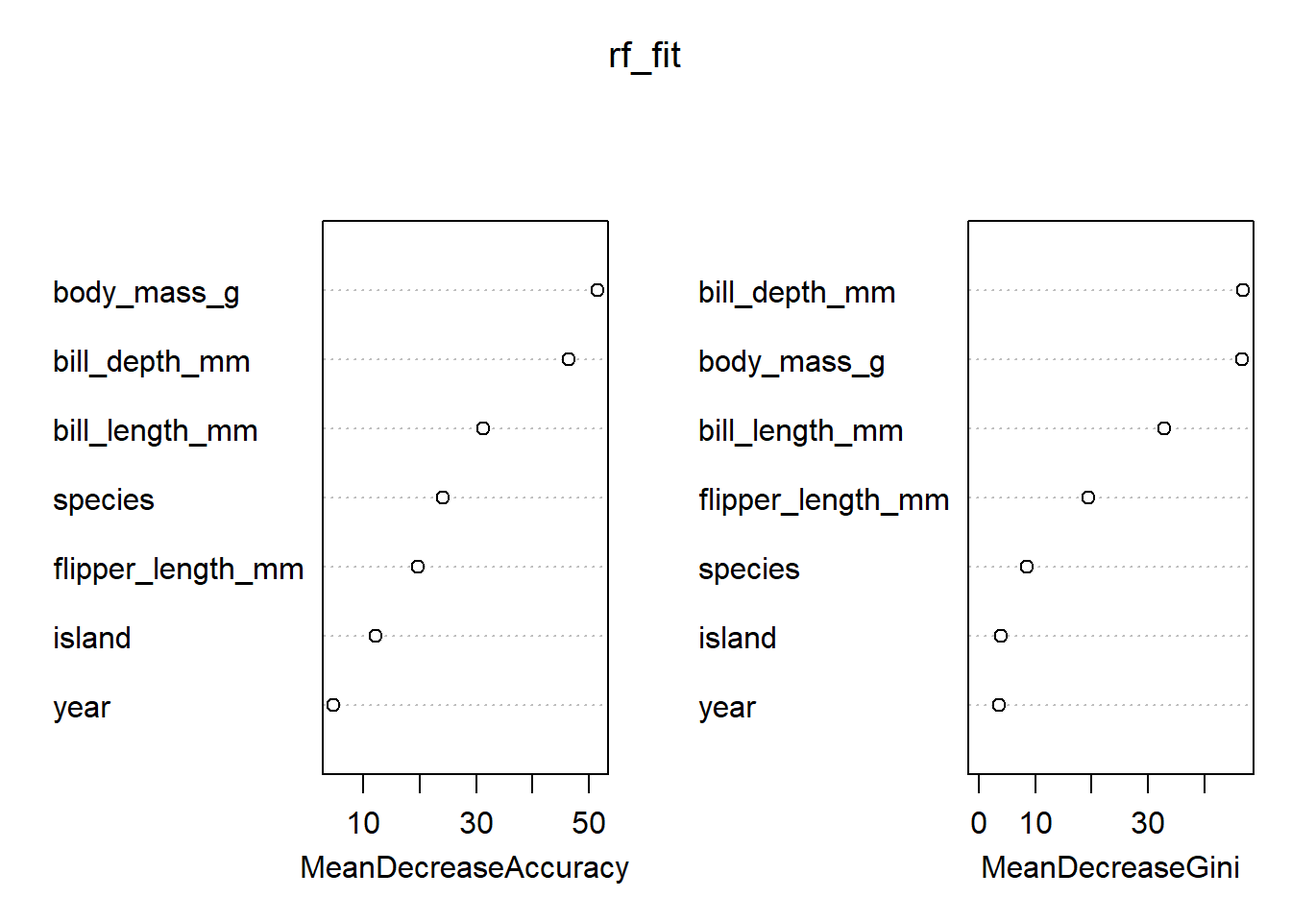
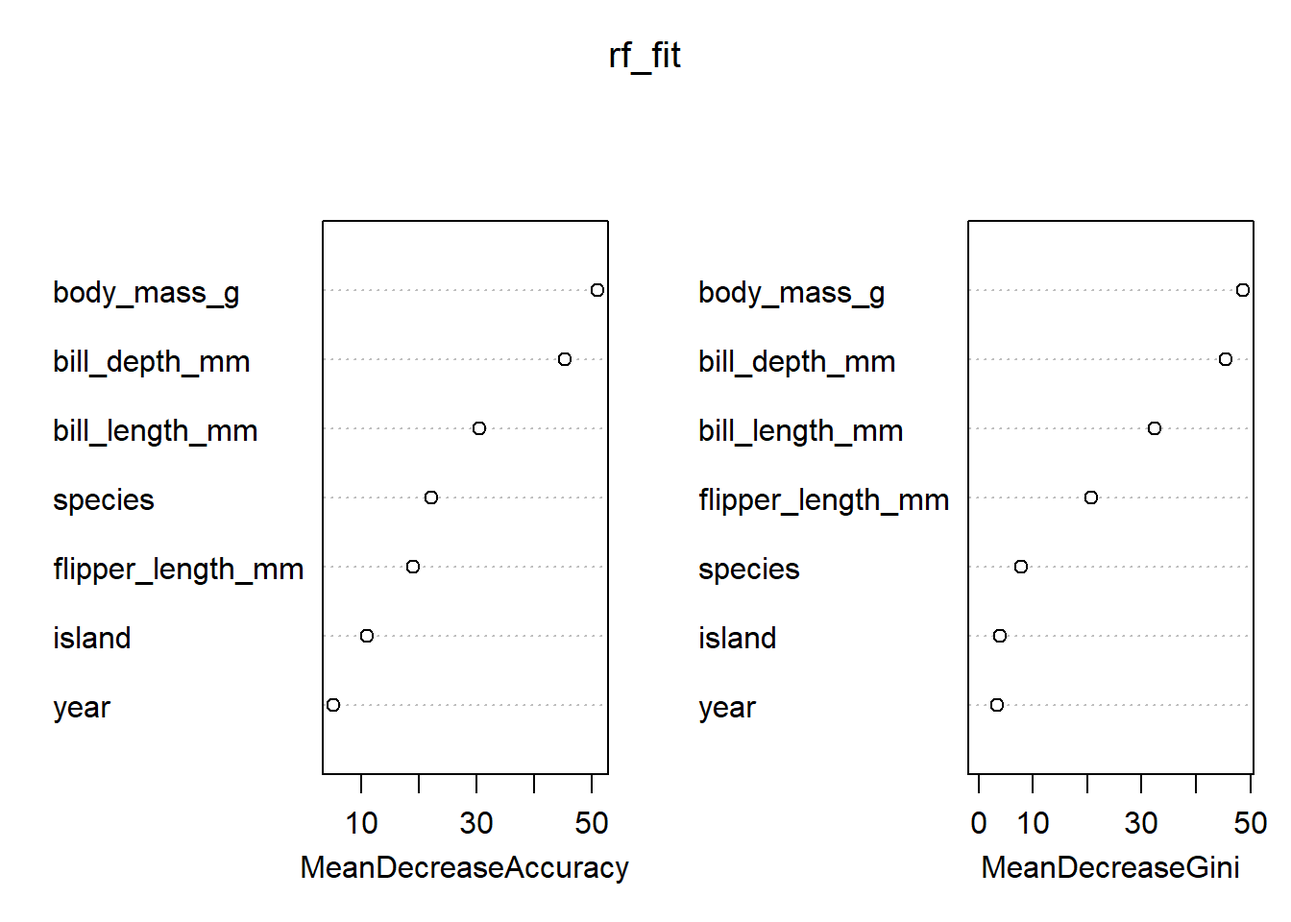
Built site for gh-pages

diff --git a/reticulate/doc/python_primer.html b/reticulate/doc/python_primer.html
@@ -431,7 +431,7 @@ pre > code.sourceCode > span > a:first-child::before { text-decoration: underlin
 <div class="sourceCode cell-code" id="cb19"><pre class="sourceCode python code-with-copy"><code class="sourceCode python"><span id="cb19-1"><a href="#cb19-1" aria-hidden="true" tabindex="-1"></a>l <span class="op">=</span> [<span class="dv">1</span>, <span class="dv">2</span>, <span class="dv">3</span>]</span>
 <span id="cb19-2"><a href="#cb19-2" aria-hidden="true" tabindex="-1"></a>it <span class="op">=</span> <span class="bu">iter</span>(l) <span class="co"># create an iterator object</span></span>
 <span id="cb19-3"><a href="#cb19-3" aria-hidden="true" tabindex="-1"></a>it</span>
-<span id="cb19-4"><a href="#cb19-4" aria-hidden="true" tabindex="-1"></a><span class="co">#&gt; &lt;list_iterator object at 0x000001C74D369F30&gt;</span></span>
+<span id="cb19-4"><a href="#cb19-4" aria-hidden="true" tabindex="-1"></a><span class="co">#&gt; &lt;list_iterator object at 0x000001E8453E5300&gt;</span></span>
 <span id="cb19-5"><a href="#cb19-5" aria-hidden="true" tabindex="-1"></a></span>
 <span id="cb19-6"><a href="#cb19-6" aria-hidden="true" tabindex="-1"></a><span class="co"># call `next` on the iterator until it is exhausted:</span></span>
 <span id="cb19-7"><a href="#cb19-7" aria-hidden="true" tabindex="-1"></a><span class="bu">next</span>(it)</span>
@@ -585,7 +585,7 @@ pre > code.sourceCode > span > a:first-child::before { text-decoration: underlin
 <span id="cb29-8"><a href="#cb29-8" aria-hidden="true" tabindex="-1"></a></span>
 <span id="cb29-9"><a href="#cb29-9" aria-hidden="true" tabindex="-1"></a>instance <span class="op">=</span> MyClass()</span>
 <span id="cb29-10"><a href="#cb29-10" aria-hidden="true" tabindex="-1"></a>instance</span>
-<span id="cb29-11"><a href="#cb29-11" aria-hidden="true" tabindex="-1"></a><span class="co">#&gt; &lt;__main__.MyClass object at 0x000001C74D4C2BA0&gt;</span></span>
+<span id="cb29-11"><a href="#cb29-11" aria-hidden="true" tabindex="-1"></a><span class="co">#&gt; &lt;__main__.MyClass object at 0x000001E84556D280&gt;</span></span>
 <span id="cb29-12"><a href="#cb29-12" aria-hidden="true" tabindex="-1"></a><span class="bu">type</span>(instance)</span>
 <span id="cb29-13"><a href="#cb29-13" aria-hidden="true" tabindex="-1"></a><span class="co">#&gt; &lt;class '__main__.MyClass'&gt;</span></span></code><button title="Copy to Clipboard" class="code-copy-button"><i class="bi"></i></button></pre></div>
 </div>
@@ -612,14 +612,14 @@ pre > code.sourceCode > span > a:first-child::before { text-decoration: underlin
 <span id="cb31-10"><a href="#cb31-10" aria-hidden="true" tabindex="-1"></a><span class="co">#&gt; MyClass is finished being created</span></span>
 <span id="cb31-11"><a href="#cb31-11" aria-hidden="true" tabindex="-1"></a></span>
 <span id="cb31-12"><a href="#cb31-12" aria-hidden="true" tabindex="-1"></a>instance <span class="op">=</span> MyClass()</span>
-<span id="cb31-13"><a href="#cb31-13" aria-hidden="true" tabindex="-1"></a><span class="co">#&gt; &lt;__main__.MyClass object at 0x000001C73D1FBEC0&gt; is initializing</span></span>
+<span id="cb31-13"><a href="#cb31-13" aria-hidden="true" tabindex="-1"></a><span class="co">#&gt; &lt;__main__.MyClass object at 0x000001E845515AC0&gt; is initializing</span></span>
 <span id="cb31-14"><a href="#cb31-14" aria-hidden="true" tabindex="-1"></a><span class="bu">print</span>(instance)</span>
-<span id="cb31-15"><a href="#cb31-15" aria-hidden="true" tabindex="-1"></a><span class="co">#&gt; &lt;__main__.MyClass object at 0x000001C73D1FBEC0&gt;</span></span>
+<span id="cb31-15"><a href="#cb31-15" aria-hidden="true" tabindex="-1"></a><span class="co">#&gt; &lt;__main__.MyClass object at 0x000001E845515AC0&gt;</span></span>
 <span id="cb31-16"><a href="#cb31-16" aria-hidden="true" tabindex="-1"></a></span>
 <span id="cb31-17"><a href="#cb31-17" aria-hidden="true" tabindex="-1"></a>instance2 <span class="op">=</span> MyClass()</span>
-<span id="cb31-18"><a href="#cb31-18" aria-hidden="true" tabindex="-1"></a><span class="co">#&gt; &lt;__main__.MyClass object at 0x000001C74D4C2120&gt; is initializing</span></span>
+<span id="cb31-18"><a href="#cb31-18" aria-hidden="true" tabindex="-1"></a><span class="co">#&gt; &lt;__main__.MyClass object at 0x000001E84556E510&gt; is initializing</span></span>
 <span id="cb31-19"><a href="#cb31-19" aria-hidden="true" tabindex="-1"></a><span class="bu">print</span>(instance2)</span>
-<span id="cb31-20"><a href="#cb31-20" aria-hidden="true" tabindex="-1"></a><span class="co">#&gt; &lt;__main__.MyClass object at 0x000001C74D4C2120&gt;</span></span></code><button title="Copy to Clipboard" class="code-copy-button"><i class="bi"></i></button></pre></div>
+<span id="cb31-20"><a href="#cb31-20" aria-hidden="true" tabindex="-1"></a><span class="co">#&gt; &lt;__main__.MyClass object at 0x000001E84556E510&gt;</span></span></code><button title="Copy to Clipboard" class="code-copy-button"><i class="bi"></i></button></pre></div>
 </div>
 <p>A few things to note:</p>
 <ul>
@@ -636,12 +636,12 @@ pre > code.sourceCode > span > a:first-child::before { text-decoration: underlin
 <span id="cb32-4"><a href="#cb32-4" aria-hidden="true" tabindex="-1"></a></span>
 <span id="cb32-5"><a href="#cb32-5" aria-hidden="true" tabindex="-1"></a>instance <span class="op">=</span> MyClass()</span>
 <span id="cb32-6"><a href="#cb32-6" aria-hidden="true" tabindex="-1"></a>instance.a_method()</span>
-<span id="cb32-7"><a href="#cb32-7" aria-hidden="true" tabindex="-1"></a><span class="co">#&gt; MyClass.a_method() was called with &lt;__main__.MyClass object at 0x000001C74D4F0740&gt;</span></span>
+<span id="cb32-7"><a href="#cb32-7" aria-hidden="true" tabindex="-1"></a><span class="co">#&gt; MyClass.a_method() was called with &lt;__main__.MyClass object at 0x000001E845429FA0&gt;</span></span>
 <span id="cb32-8"><a href="#cb32-8" aria-hidden="true" tabindex="-1"></a></span>
 <span id="cb32-9"><a href="#cb32-9" aria-hidden="true" tabindex="-1"></a>MyClass.a_method()     <span class="co"># error, missing required argument `self`</span></span>
 <span id="cb32-10"><a href="#cb32-10" aria-hidden="true" tabindex="-1"></a><span class="co">#&gt; TypeError: MyClass.a_method() missing 1 required positional argument: 'self'</span></span>
 <span id="cb32-11"><a href="#cb32-11" aria-hidden="true" tabindex="-1"></a>MyClass.a_method(instance) <span class="co"># identical to instance.a_method()</span></span>
-<span id="cb32-12"><a href="#cb32-12" aria-hidden="true" tabindex="-1"></a><span class="co">#&gt; MyClass.a_method() was called with &lt;__main__.MyClass object at 0x000001C74D4F0740&gt;</span></span></code><button title="Copy to Clipboard" class="code-copy-button"><i class="bi"></i></button></pre></div>
+<span id="cb32-12"><a href="#cb32-12" aria-hidden="true" tabindex="-1"></a><span class="co">#&gt; MyClass.a_method() was called with &lt;__main__.MyClass object at 0x000001E845429FA0&gt;</span></span></code><button title="Copy to Clipboard" class="code-copy-button"><i class="bi"></i></button></pre></div>
 </div>
 <p>Other dunder’s worth knowing about are:</p>
 <ul>
@@ -712,14 +712,14 @@ pre > code.sourceCode > span > a:first-child::before { text-decoration: underlin
 <span id="cb34-5"><a href="#cb34-5" aria-hidden="true" tabindex="-1"></a></span>
 <span id="cb34-6"><a href="#cb34-6" aria-hidden="true" tabindex="-1"></a><span class="co"># At first glance it presents like a regular function</span></span>
 <span id="cb34-7"><a href="#cb34-7" aria-hidden="true" tabindex="-1"></a>my_generator_constructor</span>
-<span id="cb34-8"><a href="#cb34-8" aria-hidden="true" tabindex="-1"></a><span class="co">#&gt; &lt;function my_generator_constructor at 0x000001C74D4E6AC0&gt;</span></span>
+<span id="cb34-8"><a href="#cb34-8" aria-hidden="true" tabindex="-1"></a><span class="co">#&gt; &lt;function my_generator_constructor at 0x000001E8455B5EE0&gt;</span></span>
 <span id="cb34-9"><a href="#cb34-9" aria-hidden="true" tabindex="-1"></a><span class="bu">type</span>(my_generator_constructor)</span>
 <span id="cb34-10"><a href="#cb34-10" aria-hidden="true" tabindex="-1"></a><span class="co">#&gt; &lt;class 'function'&gt;</span></span>
 <span id="cb34-11"><a href="#cb34-11" aria-hidden="true" tabindex="-1"></a></span>
 <span id="cb34-12"><a href="#cb34-12" aria-hidden="true" tabindex="-1"></a><span class="co"># But calling it returns something special, a 'generator object'</span></span>
 <span id="cb34-13"><a href="#cb34-13" aria-hidden="true" tabindex="-1"></a>my_generator <span class="op">=</span> my_generator_constructor()</span>
 <span id="cb34-14"><a href="#cb34-14" aria-hidden="true" tabindex="-1"></a>my_generator</span>
-<span id="cb34-15"><a href="#cb34-15" aria-hidden="true" tabindex="-1"></a><span class="co">#&gt; &lt;generator object my_generator_constructor at 0x000001C74D3DA140&gt;</span></span>
+<span id="cb34-15"><a href="#cb34-15" aria-hidden="true" tabindex="-1"></a><span class="co">#&gt; &lt;generator object my_generator_constructor at 0x000001E84548A140&gt;</span></span>
 <span id="cb34-16"><a href="#cb34-16" aria-hidden="true" tabindex="-1"></a><span class="bu">type</span>(my_generator)</span>
 <span id="cb34-17"><a href="#cb34-17" aria-hidden="true" tabindex="-1"></a><span class="co">#&gt; &lt;class 'generator'&gt;</span></span>
 <span id="cb34-18"><a href="#cb34-18" aria-hidden="true" tabindex="-1"></a></span>
@@ -762,7 +762,7 @@ pre > code.sourceCode > span > a:first-child::before { text-decoration: underlin
 <div class="cell">
 <div class="sourceCode cell-code" id="cb37"><pre class="sourceCode python code-with-copy"><code class="sourceCode python"><span id="cb37-1"><a href="#cb37-1" aria-hidden="true" tabindex="-1"></a><span class="im">import</span> sys</span>
 <span id="cb37-2"><a href="#cb37-2" aria-hidden="true" tabindex="-1"></a>sys.path</span>
-<span id="cb37-3"><a href="#cb37-3" aria-hidden="true" tabindex="-1"></a><span class="co">#&gt; ['', 'C:\\Users\\C25Swayam.Singh\\Desktop\\Final Project\\.venv\\Scripts', 'C:\\Users\\C25Swayam.Singh\\AppData\\Local\\R\\cache\\R\\renv\\cache\\v5\\R-4.3\\x86_64-w64-mingw32\\reticulate\\1.36.1\\e037fb5dc364efdaf616eb6bc05aaca2\\reticulate\\config', 'C:\\Users\\C25Swayam.Singh\\AppData\\Local\\Programs\\Python\\Python312\\python312.zip', 'C:\\Users\\C25Swayam.Singh\\AppData\\Local\\Programs\\Python\\Python312\\DLLs', 'C:\\Users\\C25Swayam.Singh\\AppData\\Local\\Programs\\Python\\Python312\\Lib', 'C:\\Users\\C25Swayam.Singh\\AppData\\Local\\Programs\\Python\\Python312', 'C:\\Users\\C25SWA~1.SIN\\Desktop\\FINALP~1\\VENV~1', 'C:\\Users\\C25SWA~1.SIN\\Desktop\\FINALP~1\\VENV~1\\Lib\\site-packages', 'C:\\Users\\C25Swayam.Singh\\AppData\\Local\\R\\cache\\R\\renv\\cache\\v5\\R-4.3\\x86_64-w64-mingw32\\reticulate\\1.36.1\\e037fb5dc364efdaf616eb6bc05aaca2\\reticulate\\python', 'C:\\Users\\C25Swayam.Singh\\Desktop\\Final Project\\.venv\\DLLs', 'C:\\Users\\C25Swayam.Singh\\Desktop\\Final Project\\.venv\\Lib', 'C:\\Users\\C25Swayam.Singh\\AppData\\Local\\Programs\\R\\R-4.3.3\\bin\\x64', 'C:\\Users\\C25Swayam.Singh\\Desktop\\Final Project\\.venv', 'C:\\Users\\C25Swayam.Singh\\Desktop\\Final Project\\.venv\\Lib\\site-packages']</span></span></code><button title="Copy to Clipboard" class="code-copy-button"><i class="bi"></i></button></pre></div>
+<span id="cb37-3"><a href="#cb37-3" aria-hidden="true" tabindex="-1"></a><span class="co">#&gt; ['', 'C:\\Users\\C25Swayam.Singh\\Desktop\\Final Project\\.venv\\Scripts', 'C:\\Users\\C25Swayam.Singh\\AppData\\Local\\R\\cache\\R\\renv\\cache\\v5\\R-4.3\\x86_64-w64-mingw32\\reticulate\\1.36.1\\e037fb5dc364efdaf616eb6bc05aaca2\\reticulate\\config', 'C:\\Users\\C25Swayam.Singh\\AppData\\Local\\Programs\\Python\\Python312\\python312.zip', 'C:\\Users\\C25Swayam.Singh\\AppData\\Local\\Programs\\Python\\Python312\\DLLs', 'C:\\Users\\C25Swayam.Singh\\AppData\\Local\\Programs\\Python\\Python312\\Lib', 'C:\\Users\\C25Swayam.Singh\\AppData\\Local\\Programs\\Python\\Python312', 'C:\\Users\\C25SWA~1.SIN\\Desktop\\FINALP~1\\VENV~1', 'C:\\Users\\C25SWA~1.SIN\\Desktop\\FINALP~1\\VENV~1\\Lib\\site-packages', 'C:\\Users\\C25SWA~1.SIN\\Desktop\\FINALP~1\\VENV~1\\Lib\\site-packages\\win32', 'C:\\Users\\C25SWA~1.SIN\\Desktop\\FINALP~1\\VENV~1\\Lib\\site-packages\\win32\\lib', 'C:\\Users\\C25SWA~1.SIN\\Desktop\\FINALP~1\\VENV~1\\Lib\\site-packages\\Pythonwin', 'C:\\Users\\C25Swayam.Singh\\AppData\\Local\\R\\cache\\R\\renv\\cache\\v5\\R-4.3\\x86_64-w64-mingw32\\reticulate\\1.36.1\\e037fb5dc364efdaf616eb6bc05aaca2\\reticulate\\python', 'C:\\Users\\C25Swayam.Singh\\Desktop\\Final Project\\.venv\\DLLs', 'C:\\Users\\C25Swayam.Singh\\Desktop\\Final Project\\.venv\\Lib', 'C:\\Users\\C25Swayam.Singh\\AppData\\Local\\Programs\\R\\R-4.3.3\\bin\\x64', 'C:\\Users\\C25Swayam.Singh\\Desktop\\Final Project\\.venv', 'C:\\Users\\C25Swayam.Singh\\Desktop\\Final Project\\.venv\\Lib\\site-packages', 'C:\\Users\\C25Swayam.Singh\\Desktop\\Final Project\\.venv\\Lib\\site-packages\\win32', 'C:\\Users\\C25Swayam.Singh\\Desktop\\Final Project\\.venv\\Lib\\site-packages\\win32\\lib', 'C:\\Users\\C25Swayam.Singh\\Desktop\\Final Project\\.venv\\Lib\\site-packages\\Pythonwin']</span></span></code><button title="Copy to Clipboard" class="code-copy-button"><i class="bi"></i></button></pre></div>
 </div>
 <p>You can inspect where a module was loaded from by accessing the dunder <code>__path__</code> or <code>__file__</code> (especially useful when troubleshooting installation issues):</p>
 <div class="cell">

diff --git a/Final Project.html b/Final Project.html
@@ -188,7 +188,7 @@ These packages will be installed into "~/AppData/Local/R/cache/R/renv/library/Fi
 
 # Installing packages --------------------------------------------------------
 - Installing Matrix ...                         OK [linked from cache]
-Successfully installed 1 package in 31 milliseconds.</code></pre>
+Successfully installed 1 package in 37 milliseconds.</code></pre>
 </div>
 </div>
 <div class="cell">
@@ -200,13 +200,13 @@ These packages will be installed into "~/AppData/Local/R/cache/R/renv/library/Fi
 
 # Installing packages --------------------------------------------------------
 - Installing lattice ...                        OK [linked from cache]
-Successfully installed 1 package in 20 milliseconds.</code></pre>
+Successfully installed 1 package in 23 milliseconds.</code></pre>
 </div>
 </div>
 <div class="cell">
 <div class="sourceCode cell-code" id="cb5"><pre class="sourceCode r code-with-copy"><code class="sourceCode r"><span id="cb5-1"><a href="#cb5-1" aria-hidden="true" tabindex="-1"></a>renv<span class="sc">::</span><span class="fu">init</span>()</span></code><button title="Copy to Clipboard" class="code-copy-button"><i class="bi"></i></button></pre></div>
 <div class="cell-output cell-output-stdout">
-<pre><code>A large number of files (1424 in total) have been discovered.
+<pre><code>A large number of files (1429 in total) have been discovered.
 It may take renv a long time to crawl these files for dependencies.
 Consider using .renvignore to ignore irrelevant files.
 See `?renv::dependencies` for more information.
@@ -216,7 +216,7 @@ Set `options(renv.config.dependencies.limit = Inf)` to disable this warning.</co
 <div class="cell">
 <div class="sourceCode cell-code" id="cb7"><pre class="sourceCode r code-with-copy"><code class="sourceCode r"><span id="cb7-1"><a href="#cb7-1" aria-hidden="true" tabindex="-1"></a>renv<span class="sc">::</span><span class="fu">snapshot</span>()</span></code><button title="Copy to Clipboard" class="code-copy-button"><i class="bi"></i></button></pre></div>
 <div class="cell-output cell-output-stdout">
-<pre><code>A large number of files (1424 in total) have been discovered.
+<pre><code>A large number of files (1429 in total) have been discovered.
 It may take renv a long time to crawl these files for dependencies.
 Consider using .renvignore to ignore irrelevant files.
 See `?renv::dependencies` for more information.
@@ -234,7 +234,7 @@ Set `options(renv.config.dependencies.limit = Inf)` to disable this warning.
 <div class="cell">
 <div class="sourceCode cell-code" id="cb11"><pre class="sourceCode r code-with-copy"><code class="sourceCode r"><span id="cb11-1"><a href="#cb11-1" aria-hidden="true" tabindex="-1"></a>renv<span class="sc">::</span><span class="fu">status</span>()</span></code><button title="Copy to Clipboard" class="code-copy-button"><i class="bi"></i></button></pre></div>
 <div class="cell-output cell-output-stdout">
-<pre><code>A large number of files (1424 in total) have been discovered.
+<pre><code>A large number of files (1429 in total) have been discovered.
 It may take renv a long time to crawl these files for dependencies.
 Consider using .renvignore to ignore irrelevant files.
 See `?renv::dependencies` for more information.
@@ -259,13 +259,13 @@ These packages will be installed into "~/AppData/Local/R/cache/R/renv/library/Fi
 
 # Installing packages --------------------------------------------------------
 - Installing renv ...                           OK [linked from cache]
-Successfully installed 1 package in 26 milliseconds.</code></pre>
+Successfully installed 1 package in 17 milliseconds.</code></pre>
 </div>
 </div>
 <div class="cell">
 <div class="sourceCode cell-code" id="cb17"><pre class="sourceCode r code-with-copy"><code class="sourceCode r"><span id="cb17-1"><a href="#cb17-1" aria-hidden="true" tabindex="-1"></a>renv<span class="sc">::</span><span class="fu">snapshot</span>()</span></code><button title="Copy to Clipboard" class="code-copy-button"><i class="bi"></i></button></pre></div>
 <div class="cell-output cell-output-stdout">
-<pre><code>A large number of files (1424 in total) have been discovered.
+<pre><code>A large number of files (1429 in total) have been discovered.
 It may take renv a long time to crawl these files for dependencies.
 Consider using .renvignore to ignore irrelevant files.
 See `?renv::dependencies` for more information.
@@ -283,11 +283,11 @@ These packages will be installed into "~/AppData/Local/R/cache/R/renv/library/Fi
 
 # Installing packages --------------------------------------------------------
 - Installing reticulate ...                     OK [linked from cache]
-Successfully installed 1 package in 18 milliseconds.</code></pre>
+Successfully installed 1 package in 17 milliseconds.</code></pre>
 </div>
 <div class="sourceCode cell-code" id="cb21"><pre class="sourceCode r code-with-copy"><code class="sourceCode r"><span id="cb21-1"><a href="#cb21-1" aria-hidden="true" tabindex="-1"></a>renv<span class="sc">::</span><span class="fu">snapshot</span>()</span></code><button title="Copy to Clipboard" class="code-copy-button"><i class="bi"></i></button></pre></div>
 <div class="cell-output cell-output-stdout">
-<pre><code>A large number of files (1424 in total) have been discovered.
+<pre><code>A large number of files (1429 in total) have been discovered.
 It may take renv a long time to crawl these files for dependencies.
 Consider using .renvignore to ignore irrelevant files.
 See `?renv::dependencies` for more information.
@@ -325,7 +325,7 @@ NOTE: Python version was forced by use_python() function</code></pre>
 <div class="sourceCode cell-code" id="cb27"><pre class="sourceCode r code-with-copy"><code class="sourceCode r"><span id="cb27-1"><a href="#cb27-1" aria-hidden="true" tabindex="-1"></a>numpy <span class="ot">&lt;-</span> <span class="fu">import</span>(<span class="st">"numpy"</span>)</span>
 <span id="cb27-2"><a href="#cb27-2" aria-hidden="true" tabindex="-1"></a><span class="fu">print</span>(numpy<span class="sc">$</span>random<span class="sc">$</span><span class="fu">rand</span>(<span class="dv">5</span>L))</span></code><button title="Copy to Clipboard" class="code-copy-button"><i class="bi"></i></button></pre></div>
 <div class="cell-output cell-output-stdout">
-<pre><code>[1] 0.7082117 0.3053227 0.6988165 0.4081560 0.5550171</code></pre>
+<pre><code>[1] 0.08151159 0.73970175 0.14434907 0.09226285 0.67307406</code></pre>
 </div>
 </div>
 <div class="cell">
@@ -343,7 +343,7 @@ NOTE: Python version was forced by use_python() function</code></pre>
 <div class="cell">
 <div class="sourceCode cell-code" id="cb31"><pre class="sourceCode r code-with-copy"><code class="sourceCode r"><span id="cb31-1"><a href="#cb31-1" aria-hidden="true" tabindex="-1"></a>renv<span class="sc">::</span><span class="fu">snapshot</span>()</span></code><button title="Copy to Clipboard" class="code-copy-button"><i class="bi"></i></button></pre></div>
 <div class="cell-output cell-output-stdout">
-<pre><code>A large number of files (1424 in total) have been discovered.
+<pre><code>A large number of files (1429 in total) have been discovered.
 It may take renv a long time to crawl these files for dependencies.
 Consider using .renvignore to ignore irrelevant files.
 See `?renv::dependencies` for more information.
@@ -367,7 +367,7 @@ Set `options(renv.config.dependencies.limit = Inf)` to disable this warning.
 <div class="cell">
 <div class="sourceCode cell-code" id="cb37"><pre class="sourceCode r code-with-copy"><code class="sourceCode r"><span id="cb37-1"><a href="#cb37-1" aria-hidden="true" tabindex="-1"></a>renv<span class="sc">::</span><span class="fu">snapshot</span>()</span></code><button title="Copy to Clipboard" class="code-copy-button"><i class="bi"></i></button></pre></div>
 <div class="cell-output cell-output-stdout">
-<pre><code>A large number of files (1424 in total) have been discovered.
+<pre><code>A large number of files (1429 in total) have been discovered.
 It may take renv a long time to crawl these files for dependencies.
 Consider using .renvignore to ignore irrelevant files.
 See `?renv::dependencies` for more information.
@@ -385,7 +385,7 @@ These packages will be installed into "~/AppData/Local/R/cache/R/renv/library/Fi
 
 # Installing packages --------------------------------------------------------
 - Installing bslib ...                          OK [linked from cache]
-Successfully installed 1 package in 19 milliseconds.</code></pre>
+Successfully installed 1 package in 16 milliseconds.</code></pre>
 </div>
 <div class="sourceCode cell-code" id="cb41"><pre class="sourceCode r code-with-copy"><code class="sourceCode r"><span id="cb41-1"><a href="#cb41-1" aria-hidden="true" tabindex="-1"></a><span class="fu">install.packages</span>(<span class="st">"jsonlite"</span>)</span></code><button title="Copy to Clipboard" class="code-copy-button"><i class="bi"></i></button></pre></div>
 <div class="cell-output cell-output-stdout">
@@ -395,7 +395,7 @@ These packages will be installed into "~/AppData/Local/R/cache/R/renv/library/Fi
 
 # Installing packages --------------------------------------------------------
 - Installing jsonlite ...                       OK [linked from cache]
-Successfully installed 1 package in 22 milliseconds.</code></pre>
+Successfully installed 1 package in 20 milliseconds.</code></pre>
 </div>
 <div class="sourceCode cell-code" id="cb43"><pre class="sourceCode r code-with-copy"><code class="sourceCode r"><span id="cb43-1"><a href="#cb43-1" aria-hidden="true" tabindex="-1"></a><span class="fu">install.packages</span>(<span class="st">"rmarkdown"</span>)</span></code><button title="Copy to Clipboard" class="code-copy-button"><i class="bi"></i></button></pre></div>
 <div class="cell-output cell-output-stdout">
@@ -405,13 +405,13 @@ These packages will be installed into "~/AppData/Local/R/cache/R/renv/library/Fi
 
 # Installing packages --------------------------------------------------------
 - Installing rmarkdown ...                      OK [linked from cache]
-Successfully installed 1 package in 20 milliseconds.</code></pre>
+Successfully installed 1 package in 16 milliseconds.</code></pre>
 </div>
 </div>
 <div class="cell">
 <div class="sourceCode cell-code" id="cb45"><pre class="sourceCode r code-with-copy"><code class="sourceCode r"><span id="cb45-1"><a href="#cb45-1" aria-hidden="true" tabindex="-1"></a>renv<span class="sc">::</span><span class="fu">snapshot</span>()</span></code><button title="Copy to Clipboard" class="code-copy-button"><i class="bi"></i></button></pre></div>
 <div class="cell-output cell-output-stdout">
-<pre><code>A large number of files (1424 in total) have been discovered.
+<pre><code>A large number of files (1429 in total) have been discovered.
 It may take renv a long time to crawl these files for dependencies.
 Consider using .renvignore to ignore irrelevant files.
 See `?renv::dependencies` for more information.

diff --git a/eda.html b/eda.html
@@ -151,7 +151,7 @@ pre > code.sourceCode > span > a:first-child::before { text-decoration: underlin
    
   <ul>
   <li><a href="#penguin-size-vs-mass-by-species" id="toc-penguin-size-vs-mass-by-species" class="nav-link active" data-scroll-target="#penguin-size-vs-mass-by-species">Penguin Size vs Mass by Species</a></li>
-  <li><a href="#penguin-size-vs-mass-by-species-1" id="toc-penguin-size-vs-mass-by-species-1" class="nav-link" data-scroll-target="#penguin-size-vs-mass-by-species-1">Penguin Size vs Mass by Species</a></li>
+  <li><a href="#classification-with-a-random-forest-model" id="toc-classification-with-a-random-forest-model" class="nav-link" data-scroll-target="#classification-with-a-random-forest-model">Classification With a Random Forest Model</a></li>
   <li><a href="#penguin-flipper-length-vs.-body-mass" id="toc-penguin-flipper-length-vs.-body-mass" class="nav-link" data-scroll-target="#penguin-flipper-length-vs.-body-mass">Penguin Flipper Length vs.&nbsp;Body Mass</a></li>
   </ul>
 </nav>
@@ -184,7 +184,7 @@ pre > code.sourceCode > span > a:first-child::before { text-decoration: underlin
 <div class="sourceCode cell-code" id="cb1"><pre class="sourceCode r code-with-copy"><code class="sourceCode r"><span id="cb1-1"><a href="#cb1-1" aria-hidden="true" tabindex="-1"></a>renv<span class="sc">::</span><span class="fu">init</span>()</span></code><button title="Copy to Clipboard" class="code-copy-button"><i class="bi"></i></button></pre></div>
 </details>
 <div class="cell-output cell-output-stdout">
-<pre><code>A large number of files (1402 in total) have been discovered.
+<pre><code>A large number of files (1407 in total) have been discovered.
 It may take renv a long time to crawl these files for dependencies.
 Consider using .renvignore to ignore irrelevant files.
 See `?renv::dependencies` for more information.
@@ -203,7 +203,7 @@ These packages will be installed into "~/AppData/Local/R/cache/R/renv/library/Fi
 
 # Installing packages --------------------------------------------------------
 - Installing dplyr ...                          OK [linked from cache]
-Successfully installed 1 package in 33 milliseconds.</code></pre>
+Successfully installed 1 package in 31 milliseconds.</code></pre>
 </div>
 <details class="code-fold">
 <summary>Code</summary>
@@ -230,7 +230,7 @@ Attaching package: 'dplyr'</code></pre>
 <div class="sourceCode cell-code" id="cb9"><pre class="sourceCode r code-with-copy"><code class="sourceCode r"><span id="cb9-1"><a href="#cb9-1" aria-hidden="true" tabindex="-1"></a>renv<span class="sc">::</span><span class="fu">snapshot</span>()</span></code><button title="Copy to Clipboard" class="code-copy-button"><i class="bi"></i></button></pre></div>
 </details>
 <div class="cell-output cell-output-stdout">
-<pre><code>A large number of files (1402 in total) have been discovered.
+<pre><code>A large number of files (1407 in total) have been discovered.
 It may take renv a long time to crawl these files for dependencies.
 Consider using .renvignore to ignore irrelevant files.
 See `?renv::dependencies` for more information.
@@ -251,7 +251,7 @@ These packages will be installed into "~/AppData/Local/R/cache/R/renv/library/Fi
 
 # Installing packages --------------------------------------------------------
 - Installing palmerpenguins ...                 OK [linked from cache]
-Successfully installed 1 package in 31 milliseconds.</code></pre>
+Successfully installed 1 package in 32 milliseconds.</code></pre>
 </div>
 <details class="code-fold">
 <summary>Code</summary>
@@ -264,7 +264,7 @@ Successfully installed 1 package in 31 milliseconds.</code></pre>
 <div class="sourceCode cell-code" id="cb14"><pre class="sourceCode r code-with-copy"><code class="sourceCode r"><span id="cb14-1"><a href="#cb14-1" aria-hidden="true" tabindex="-1"></a>renv<span class="sc">::</span><span class="fu">snapshot</span>()</span></code><button title="Copy to Clipboard" class="code-copy-button"><i class="bi"></i></button></pre></div>
 </details>
 <div class="cell-output cell-output-stdout">
-<pre><code>A large number of files (1402 in total) have been discovered.
+<pre><code>A large number of files (1407 in total) have been discovered.
 It may take renv a long time to crawl these files for dependencies.
 Consider using .renvignore to ignore irrelevant files.
 See `?renv::dependencies` for more information.
@@ -449,8 +449,8 @@ Set `options(renv.config.dependencies.limit = Inf)` to disable this warning.
 </div>
 </div>
 </section>
-<section id="penguin-size-vs-mass-by-species-1" class="level2">
-<h2 class="anchored" data-anchor-id="penguin-size-vs-mass-by-species-1">Penguin Size vs Mass by Species</h2>
+<section id="classification-with-a-random-forest-model" class="level2">
+<h2 class="anchored" data-anchor-id="classification-with-a-random-forest-model">Classification With a Random Forest Model</h2>
 <p>The code trains a decision tree model to classify penguin sex, visualizes the tree, assesses its predictive accuracy, and creates a confusion matrix for the predictions.</p>
 <div class="cell">
 <details class="code-fold">
@@ -468,7 +468,7 @@ These packages will be installed into "~/AppData/Local/R/cache/R/renv/library/Fi
 
 # Installing packages --------------------------------------------------------
 - Installing randomForest ...                   OK [linked from cache]
-Successfully installed 1 package in 23 milliseconds.</code></pre>
+Successfully installed 1 package in 24 milliseconds.</code></pre>
 </div>
 <details class="code-fold">
 <summary>Code</summary>
@@ -505,7 +505,7 @@ These packages will be installed into "~/AppData/Local/R/cache/R/renv/library/Fi
 
 # Installing packages --------------------------------------------------------
 - Installing broom ...                          OK [linked from cache]
-Successfully installed 1 package in 32 milliseconds.</code></pre>
+Successfully installed 1 package in 27 milliseconds.</code></pre>
 </div>
 <details class="code-fold">
 <summary>Code</summary>
@@ -525,13 +525,13 @@ Successfully installed 1 package in 32 milliseconds.</code></pre>
 </details>
 <div class="cell-output cell-output-stdout">
 <pre><code>                     female      male MeanDecreaseAccuracy MeanDecreaseGini
-species           13.585920 18.726751            24.136266         8.600537
-island            10.234026  6.120893            12.098834         3.959625
-bill_length_mm    27.637570 20.718865            31.216049        32.991611
-bill_depth_mm     32.875060 34.976923            46.462032        46.910100
-flipper_length_mm 13.053278 14.198354            19.628088        19.402860
-body_mass_g       43.504468 33.515871            51.570354        46.642498
-year               4.229189  2.389190             4.650427         3.543645</code></pre>
+species           13.791440 18.119864            22.139508         7.858615
+island             8.210468  5.971069            10.950605         3.910339
+bill_length_mm    26.039126 20.599254            30.629328        32.326740
+bill_depth_mm     33.415734 36.114854            45.354716        45.511408
+flipper_length_mm 11.811815 14.137165            19.061516        20.684744
+body_mass_g       41.551814 34.804987            51.091079        48.686695
+year               3.198159  4.433604             5.177902         3.359945</code></pre>
 </div>
 <details class="code-fold">
 <summary>Code</summary>

diff --git a/model.html b/model.html
@@ -193,14 +193,14 @@ These packages will be installed into "~/AppData/Local/R/cache/R/renv/library/Fi
 
 # Installing packages --------------------------------------------------------
 - Installing reticulate ...                     OK [linked from cache]
-Successfully installed 1 package in 33 milliseconds.</code></pre>
+Successfully installed 1 package in 20 milliseconds.</code></pre>
 </div>
 <details class="code-fold">
 <summary>Code</summary>
 <div class="sourceCode cell-code" id="cb3"><pre class="sourceCode r code-with-copy"><code class="sourceCode r"><span id="cb3-1"><a href="#cb3-1" aria-hidden="true" tabindex="-1"></a>renv<span class="sc">::</span><span class="fu">snapshot</span>()</span></code><button title="Copy to Clipboard" class="code-copy-button"><i class="bi"></i></button></pre></div>
 </details>
 <div class="cell-output cell-output-stdout">
-<pre><code>A large number of files (1424 in total) have been discovered.
+<pre><code>A large number of files (1429 in total) have been discovered.
 It may take renv a long time to crawl these files for dependencies.
 Consider using .renvignore to ignore irrelevant files.
 See `?renv::dependencies` for more information.
@@ -239,7 +239,7 @@ These packages will be installed into "~/AppData/Local/R/cache/R/renv/library/Fi
 
 # Installing packages --------------------------------------------------------
 - Installing palmerpenguins ...                 OK [linked from cache]
-Successfully installed 1 package in 21 milliseconds.</code></pre>
+Successfully installed 1 package in 17 milliseconds.</code></pre>
 </div>
 <details class="code-fold">
 <summary>Code</summary>
@@ -273,7 +273,7 @@ Successfully installed 1 package in 21 milliseconds.</code></pre>
 <div class="sourceCode cell-code" id="cb16"><pre class="sourceCode r code-with-copy"><code class="sourceCode r"><span id="cb16-1"><a href="#cb16-1" aria-hidden="true" tabindex="-1"></a>renv<span class="sc">::</span><span class="fu">status</span>()</span></code><button title="Copy to Clipboard" class="code-copy-button"><i class="bi"></i></button></pre></div>
 </details>
 <div class="cell-output cell-output-stdout">
-<pre><code>A large number of files (1424 in total) have been discovered.
+<pre><code>A large number of files (1429 in total) have been discovered.
 It may take renv a long time to crawl these files for dependencies.
 Consider using .renvignore to ignore irrelevant files.
 See `?renv::dependencies` for more information.
@@ -286,7 +286,7 @@ No issues found -- the project is in a consistent state.</code></pre>
 <div class="sourceCode cell-code" id="cb18"><pre class="sourceCode r code-with-copy"><code class="sourceCode r"><span id="cb18-1"><a href="#cb18-1" aria-hidden="true" tabindex="-1"></a>renv<span class="sc">::</span><span class="fu">snapshot</span>()</span></code><button title="Copy to Clipboard" class="code-copy-button"><i class="bi"></i></button></pre></div>
 </details>
 <div class="cell-output cell-output-stdout">
-<pre><code>A large number of files (1424 in total) have been discovered.
+<pre><code>A large number of files (1429 in total) have been discovered.
 It may take renv a long time to crawl these files for dependencies.
 Consider using .renvignore to ignore irrelevant files.
 See `?renv::dependencies` for more information.
@@ -358,7 +358,7 @@ Set `options(renv.config.dependencies.limit = Inf)` to disable this warning.
 <span id="cb25-8"><a href="#cb25-8" aria-hidden="true" tabindex="-1"></a>con.register(<span class="st">'penguins'</span>, df_penguins)</span></code><button title="Copy to Clipboard" class="code-copy-button"><i class="bi"></i></button></pre></div>
 </details>
 <div class="cell-output cell-output-stdout">
-<pre><code>&lt;duckdb.duckdb.DuckDBPyConnection object at 0x000001F210114630&gt;</code></pre>
+<pre><code>&lt;duckdb.duckdb.DuckDBPyConnection object at 0x0000025100841C30&gt;</code></pre>
 </div>
 <details class="code-fold">
 <summary>Code</summary>
@@ -451,7 +451,7 @@ Set `options(renv.config.dependencies.limit = Inf)` to disable this warning.
  with vetiver.model_card()
 Writing pin:
 Name: 'penguin_model'
-Version: 20240425T140849Z-cf3d4</code></pre>
+Version: 20240425T152217Z-cf3d4</code></pre>
 </div>
 </div>
 <div class="cell">
